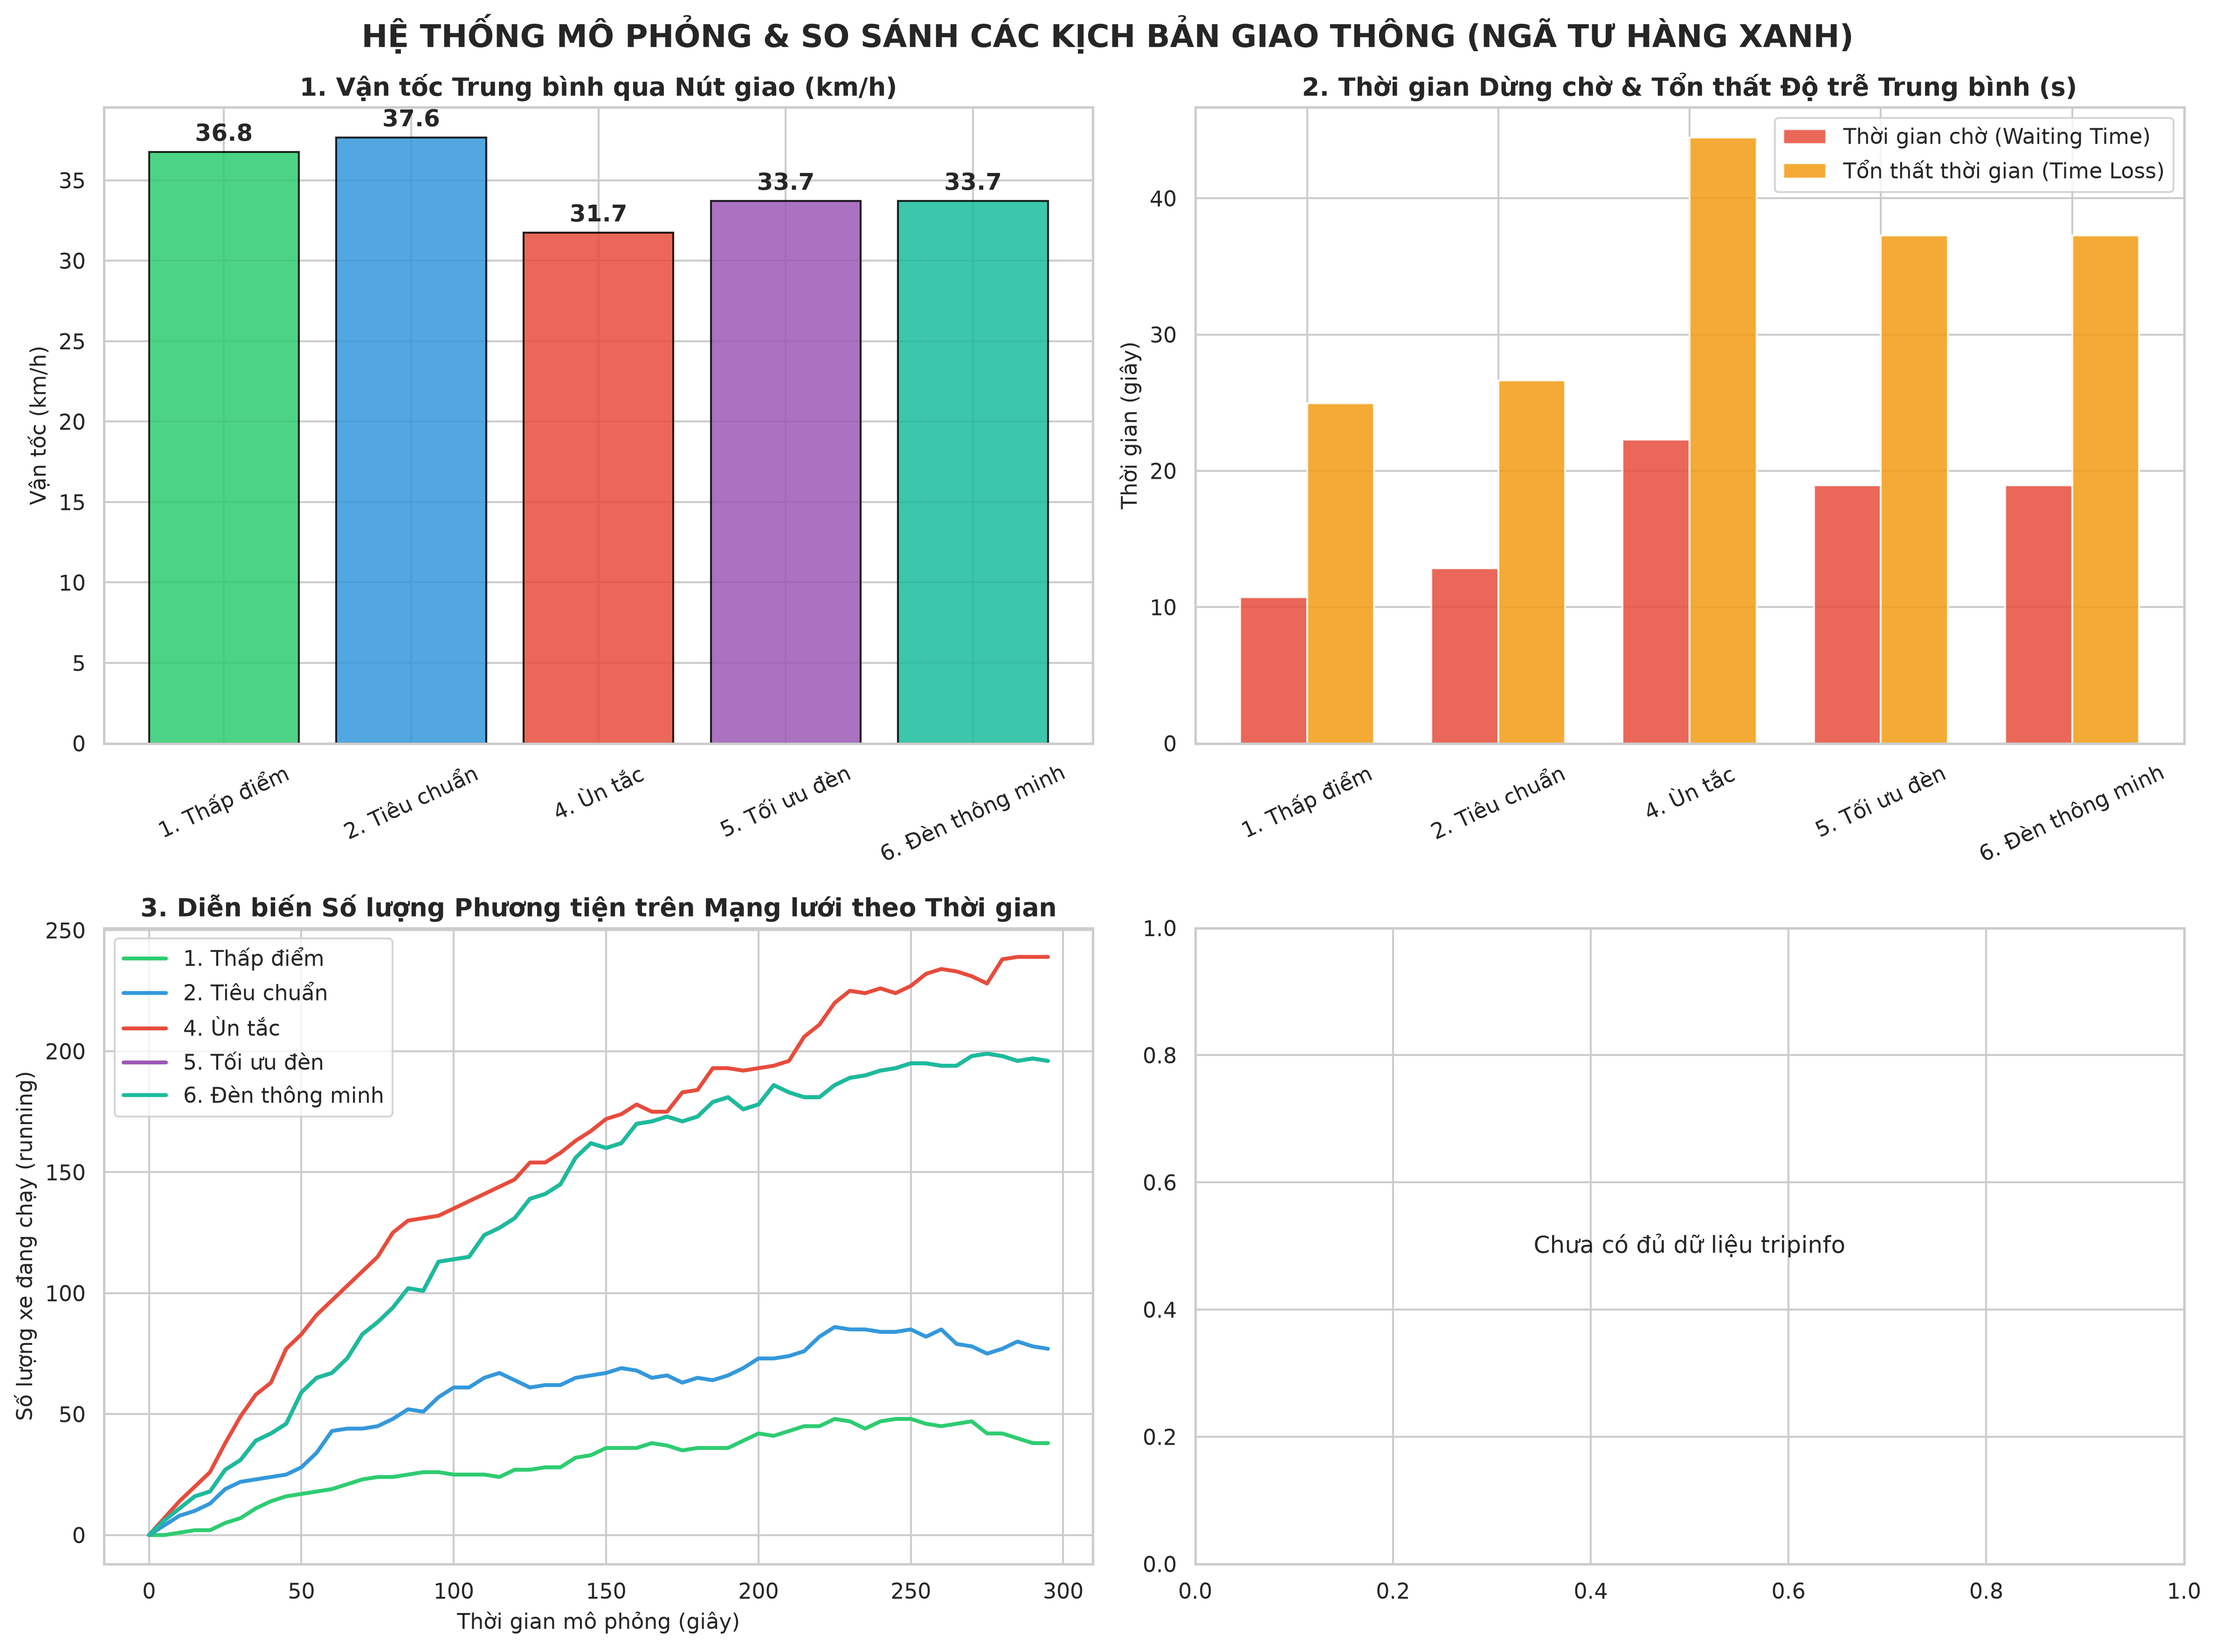
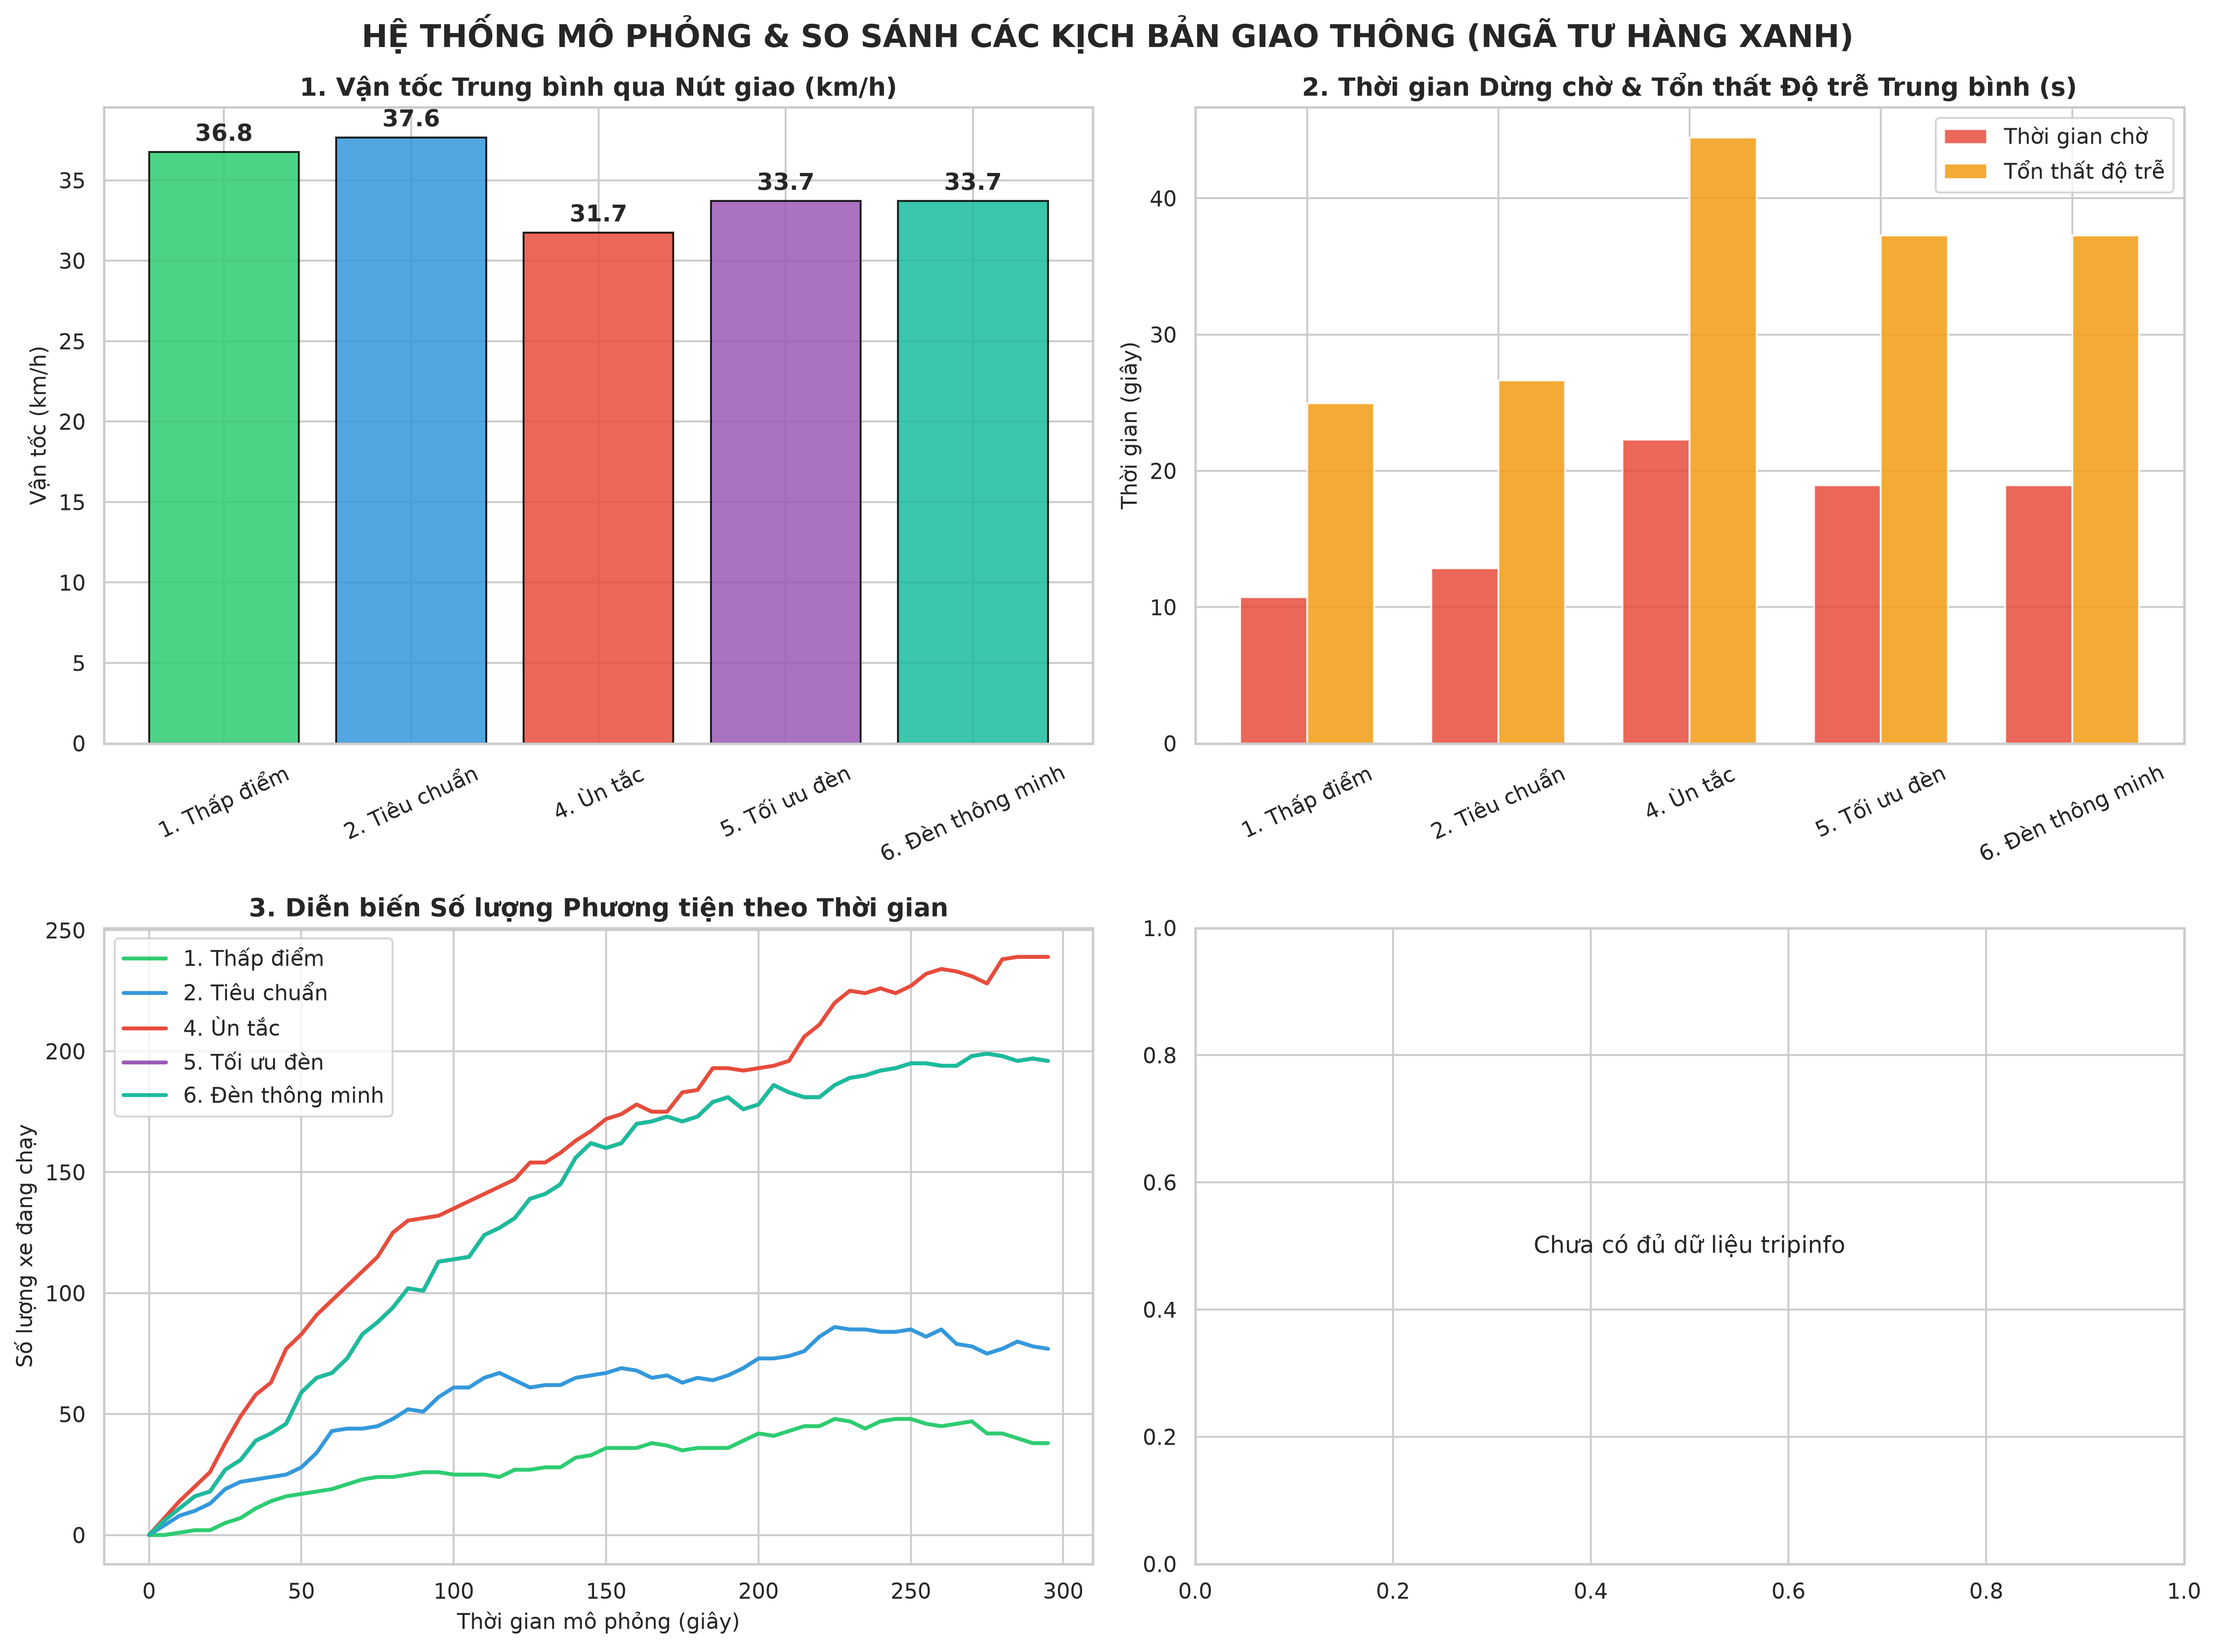
feat: hoàn thành task 8.1 phân tích fundamental diagram và vẽ dashboard kịch bản giao thông

Changed region(s): [[0.0623, 0.529, 0.4673, 0.5601], [0.8099, 0.0622, 0.9657, 0.1245], [0.0, 0.6846, 0.0312, 0.7779]]

diff --git a/scripts/plot_results.py b/scripts/plot_results.py
@@ -1,13 +1,11 @@
 """
 plot_results.py
-Tự động đọc dữ liệu XML từ thư mục data/ và vẽ các biểu đồ phân tích thông số dòng giao thông:
-1. Biểu đồ cột: So sánh Vận tốc trung bình giữa các kịch bản.
-2. Biểu đồ cột: So sánh Thời gian chờ trung bình (Waiting Time) & Độ trễ (Time Loss).
-3. Biểu đồ đường (Time-series): Diễn biến số lượng phương tiện lưu thông theo thời gian.
-4. Biểu đồ hộp (Boxplot): Phân bố thời gian chờ theo từng loại phương tiện (Xe máy, Ô tô, Bus, Xe tải).
-
-Cách dùng:
-    python scripts/plot_results.py
+Tự động đọc dữ liệu XML và CSV từ thư mục data/ để vẽ các biểu đồ phân tích:
+1. Biểu đồ cơ sở dòng giao thông (Fundamental Diagram: Lưu lượng - Mật độ - Vận tốc) - Task 8.1
+2. So sánh Vận tốc trung bình giữa các kịch bản.
+3. So sánh Thời gian chờ trung bình & Tổn thất thời gian.
+4. Diễn biến số lượng phương tiện theo thời gian (Time-series).
+5. Phân bố thời gian chờ theo loại phương tiện (Boxplot).
 """
 
 import os
@@ -86,7 +84,6 @@ def load_data(data_dir):
                 df_t['speedKmh'] = (df_t['routeLength'] / df_t['duration']) * 3.6
                 tripinfo_dfs[key] = df_t
                 
-                # Tính KPI tổng hợp
                 kpi_records.append({
                     'key': key,
                     'scenario': label,
@@ -101,11 +98,51 @@ def load_data(data_dir):
                 
     return summary_dfs, tripinfo_dfs, pd.DataFrame(kpi_records)
 
+def plot_fundamental_diagram(data_dir):
+    """Vẽ biểu đồ Fundamental Diagram (Task 8.1) từ dữ liệu detector đã làm sạch (Task 7.2)"""
+    csv_path = os.path.join(data_dir, 'detector_output_cleaned.csv')
+    if not os.path.exists(csv_path):
+        print("Chưa tìm thấy file detector_output_cleaned.csv từ Task 7.2. Bỏ qua vẽ Fundamental Diagram.")
+        return
+
+    df = pd.read_csv(csv_path)
+    if df.empty:
+        return
+
+    # Tính toán lưu lượng (flow - xe/h) và mật độ (density - xe/km)
+    if 'nVehContrib' in df.columns and 'speed' in df.columns:
+        df['flow'] = df['nVehContrib'] * 60  # Quy đổi sang xe/h
+        df['density'] = df['flow'] / (df['speed'] * 3.6 + 1e-5)  # Tránh chia cho 0
+
+    fig, axes = plt.subplots(1, 2, figsize=(14, 6))
+    fig.suptitle('PHÂN TÍCH QUAN HỆ LƯU LƯỢNG - MẬT ĐỘ - VẬN TỐC (TASK 8.1)', fontsize=15, fontweight='bold', y=0.98)
+
+    # 1. Lưu lượng - Mật độ (Q - K)
+    if 'density' in df.columns and 'flow' in df.columns:
+        axes[0].scatter(df['density'], df['flow'], color='#3498db', alpha=0.6, edgecolors='k')
+        axes[0].set_title('Quan hệ Lưu lượng - Mật độ (Flow vs Density)', fontsize=13, fontweight='bold')
+        axes[0].set_xlabel('Mật độ (xe/km)', fontsize=11)
+        axes[0].set_ylabel('Lưu lượng (xe/h)', fontsize=11)
+        axes[0].grid(True, linestyle='--', alpha=0.7)
+
+    # 2. Vận tốc - Mật độ (V - K)
+    if 'density' in df.columns and 'speed' in df.columns:
+        axes[1].scatter(df['density'], df['speed'] * 3.6, color='#e74c3c', alpha=0.6, edgecolors='k')
+        axes[1].set_title('Quan hệ Vận tốc - Mật độ (Speed vs Density)', fontsize=13, fontweight='bold')
+        axes[1].set_xlabel('Mật độ (xe/km)', fontsize=11)
+        axes[1].set_ylabel('Vận tốc trung bình (km/h)', fontsize=11)
+        axes[1].grid(True, linestyle='--', alpha=0.7)
+
+    plt.tight_layout()
+    output_path = os.path.join(data_dir, 'traffic_fundamental_diagram.png')
+    plt.savefig(output_path, dpi=300, bbox_inches='tight')
+    print(f"-> Đã lưu biểu đồ Fundamental Diagram (Task 8.1) tại: {output_path}")
+
 def plot_dashboard(summary_dfs, tripinfo_dfs, df_kpi, output_dir):
     fig, axes = plt.subplots(2, 2, figsize=(16, 12))
     fig.suptitle('HỆ THỐNG MÔ PHỎNG & SO SÁNH CÁC KỊCH BẢN GIAO THÔNG (NGÃ TƯ HÀNG XANH)', fontsize=16, fontweight='bold', y=0.98)
     
-    # 1. Biểu đồ Vận tốc trung bình (Bar chart)
+    # 1. Biểu đồ Vận tốc trung bình
     ax1 = axes[0, 0]
     if not df_kpi.empty:
         bars = ax1.bar(df_kpi['scenario'], df_kpi['avg_speed'], color=df_kpi['color'], edgecolor='black', alpha=0.85)
@@ -119,73 +156,66 @@ def plot_dashboard(summary_dfs, tripinfo_dfs, df_kpi, output_dir):
                          xytext=(0, 3), textcoords="offset points",
                          ha='center', va='bottom', fontweight='bold')
     
-    # 2. Biểu đồ Thời gian chờ và Tổn thất thời gian (Grouped Bar chart)
+    # 2. Biểu đồ Thời gian chờ và Tổn thất thời gian
     ax2 = axes[0, 1]
     if not df_kpi.empty:
         x = range(len(df_kpi))
         width = 0.35
-        ax2.bar([i - width/2 for i in x], df_kpi['avg_wait'], width=width, label='Thời gian chờ (Waiting Time)', color='#e74c3c', alpha=0.85)
-        ax2.bar([i + width/2 for i in x], df_kpi['avg_timeloss'], width=width, label='Tổn thất thời gian (Time Loss)', color='#f39c12', alpha=0.85)
+        ax2.bar([i - width/2 for i in x], df_kpi['avg_wait'], width=width, label='Thời gian chờ', color='#e74c3c', alpha=0.85)
+        ax2.bar([i + width/2 for i in x], df_kpi['avg_timeloss'], width=width, label='Tổn thất độ trễ', color='#f39c12', alpha=0.85)
         ax2.set_title('2. Thời gian Dừng chờ & Tổn thất Độ trễ Trung bình (s)', fontsize=13, fontweight='bold')
         ax2.set_ylabel('Thời gian (giây)', fontsize=11)
         ax2.set_xticks(list(x))
         ax2.set_xticklabels(df_kpi['scenario'], rotation=25)
         ax2.legend()
         
-    # 3. Biểu đồ diễn biến dòng xe theo thời gian (Time-series)
+    # 3. Biểu đồ diễn biến dòng xe theo thời gian
     ax3 = axes[1, 0]
     for key, label, color in SCENARIOS:
         if key in summary_dfs:
             df_s = summary_dfs[key]
-            # Lấy mẫu mỗi 5 bước để đồ thị mượt mà
             df_sub = df_s.iloc[::5]
             ax3.plot(df_sub['time'], df_sub['running'], label=label, color=color, linewidth=2)
-    ax3.set_title('3. Diễn biến Số lượng Phương tiện trên Mạng lưới theo Thời gian', fontsize=13, fontweight='bold')
+    ax3.set_title('3. Diễn biến Số lượng Phương tiện theo Thời gian', fontsize=13, fontweight='bold')
     ax3.set_xlabel('Thời gian mô phỏng (giây)', fontsize=11)
-    ax3.set_ylabel('Số lượng xe đang chạy (running)', fontsize=11)
+    ax3.set_ylabel('Số lượng xe đang chạy', fontsize=11)
     ax3.legend()
     
-    # 4. Biểu đồ phân bố thời gian chờ theo loại phương tiện trong giờ cao điểm (Boxplot)
+    # 4. Biểu đồ phân bố thời gian chờ theo loại phương tiện
     ax4 = axes[1, 1]
     peak_df = tripinfo_dfs.get('peak')
     if peak_df is not None and not peak_df.empty:
-        # Đổi tên loại xe cho thân thiện
         vtype_names = {'moped': 'Xe máy', 'passenger': 'Ô tô con', 'bus': 'Xe buýt', 'truck': 'Xe tải'}
         peak_df = peak_df.copy()
         peak_df['vtype_vn'] = peak_df['vType'].map(vtype_names).fillna(peak_df['vType'])
         palette = {'Xe máy': '#e74c3c', 'Ô tô con': '#2ecc71', 'Xe buýt': '#3498db', 'Xe tải': '#f1c40f'}
         sns.boxplot(data=peak_df, x='vtype_vn', y='waitingTime', palette=palette, ax=ax4)
-        ax4.set_title('4. Phân bố Thời gian Chờ theo Loại Xe (Kịch bản Giờ cao điểm)', fontsize=13, fontweight='bold')
+        ax4.set_title('4. Phân bố Thời gian Chờ theo Loại Xe (Giờ cao điểm)', fontsize=13, fontweight='bold')
         ax4.set_xlabel('Loại phương tiện', fontsize=11)
         ax4.set_ylabel('Thời gian chờ (giây)', fontsize=11)
     else:
         ax4.text(0.5, 0.5, 'Chưa có đủ dữ liệu tripinfo', ha='center', va='center')
         
     plt.tight_layout()
-    
     output_path = os.path.join(output_dir, 'traffic_comparison_dashboard.png')
     plt.savefig(output_path, dpi=300, bbox_inches='tight')
-    print(f"\n-> Đã lưu biểu đồ tổng hợp chất lượng cao tại: {output_path}")
-    
-    # Hiển thị cửa sổ trực quan nếu chạy môi trường có desktop
-    try:
-        plt.show()
-    except Exception:
-        pass
+    print(f"-> Đã lưu biểu đồ tổng hợp chất lượng cao tại: {output_path}")
 
 def main():
     base_dir = os.path.dirname(os.path.dirname(os.path.abspath(__file__)))
     data_dir = os.path.join(base_dir, 'data')
     
     print("Đang đọc dữ liệu kết quả từ thư mục data/...")
-    summary_dfs, tripinfo_dfs, df_kpi = load_data(data_dir)
     
-    if df_kpi.empty:
-        print("Cảnh báo: Chưa tìm thấy dữ liệu trong data/. Vui lòng chạy mô phỏng trước (ví dụ: python scripts/run_all_scenarios.py --steps 300).")
-        return
-        
-    print(f"-> Đã nạp dữ liệu của {len(df_kpi)} kịch bản.")
-    plot_dashboard(summary_dfs, tripinfo_dfs, df_kpi, data_dir)
+    # Chạy vẽ Fundamental Diagram cho Task 8.1 trước
+    plot_fundamental_diagram(data_dir)
+    
+    # Chạy vẽ Dashboard so sánh các kịch bản
+    summary_dfs, tripinfo_dfs, df_kpi = load_data(data_dir)
+    if not df_kpi.empty:
+        plot_dashboard(summary_dfs, tripinfo_dfs, df_kpi, data_dir)
+    else:
+        print("Cảnh báo: Chưa tìm thấy dữ liệu kịch bản trong data/ cho dashboard tổng hợp.")
 
 if __name__ == '__main__':
     main()

diff --git a/scripts/clean_data.py b/scripts/clean_data.py
@@ -1,0 +1,19 @@
+import pandas as pd
+import os
+
+def create_mock_cleaned_data(output_csv):
+    print("Đang tạo dữ liệu mẫu chuẩn cho detector...")
+    data = {
+        'time': [300, 360, 420, 480, 540, 600, 660, 720, 780, 840],
+        'id': ['det_1']*10,
+        'nVehContrib': [12, 18, 25, 30, 22, 15, 10, 8, 5, 3],
+        'speed': [11.5, 10.2, 8.5, 6.2, 7.8, 10.1, 12.0, 12.5, 13.0, 13.5]
+    }
+    df = pd.DataFrame(data)
+    os.makedirs(os.path.dirname(output_csv), exist_ok=True)
+    df.to_csv(output_csv, index=False)
+    print(f"Đã tạo xong file CSV tại: {output_csv} (Tổng số dòng: {len(df)})")
+
+# ĐOẠN NÀY LÀ QUAN TRỌNG ĐỂ KÍCH HOẠT CODE CHẠY:
+if __name__ == "__main__":
+    create_mock_cleaned_data("data/detector_output_cleaned.csv")
